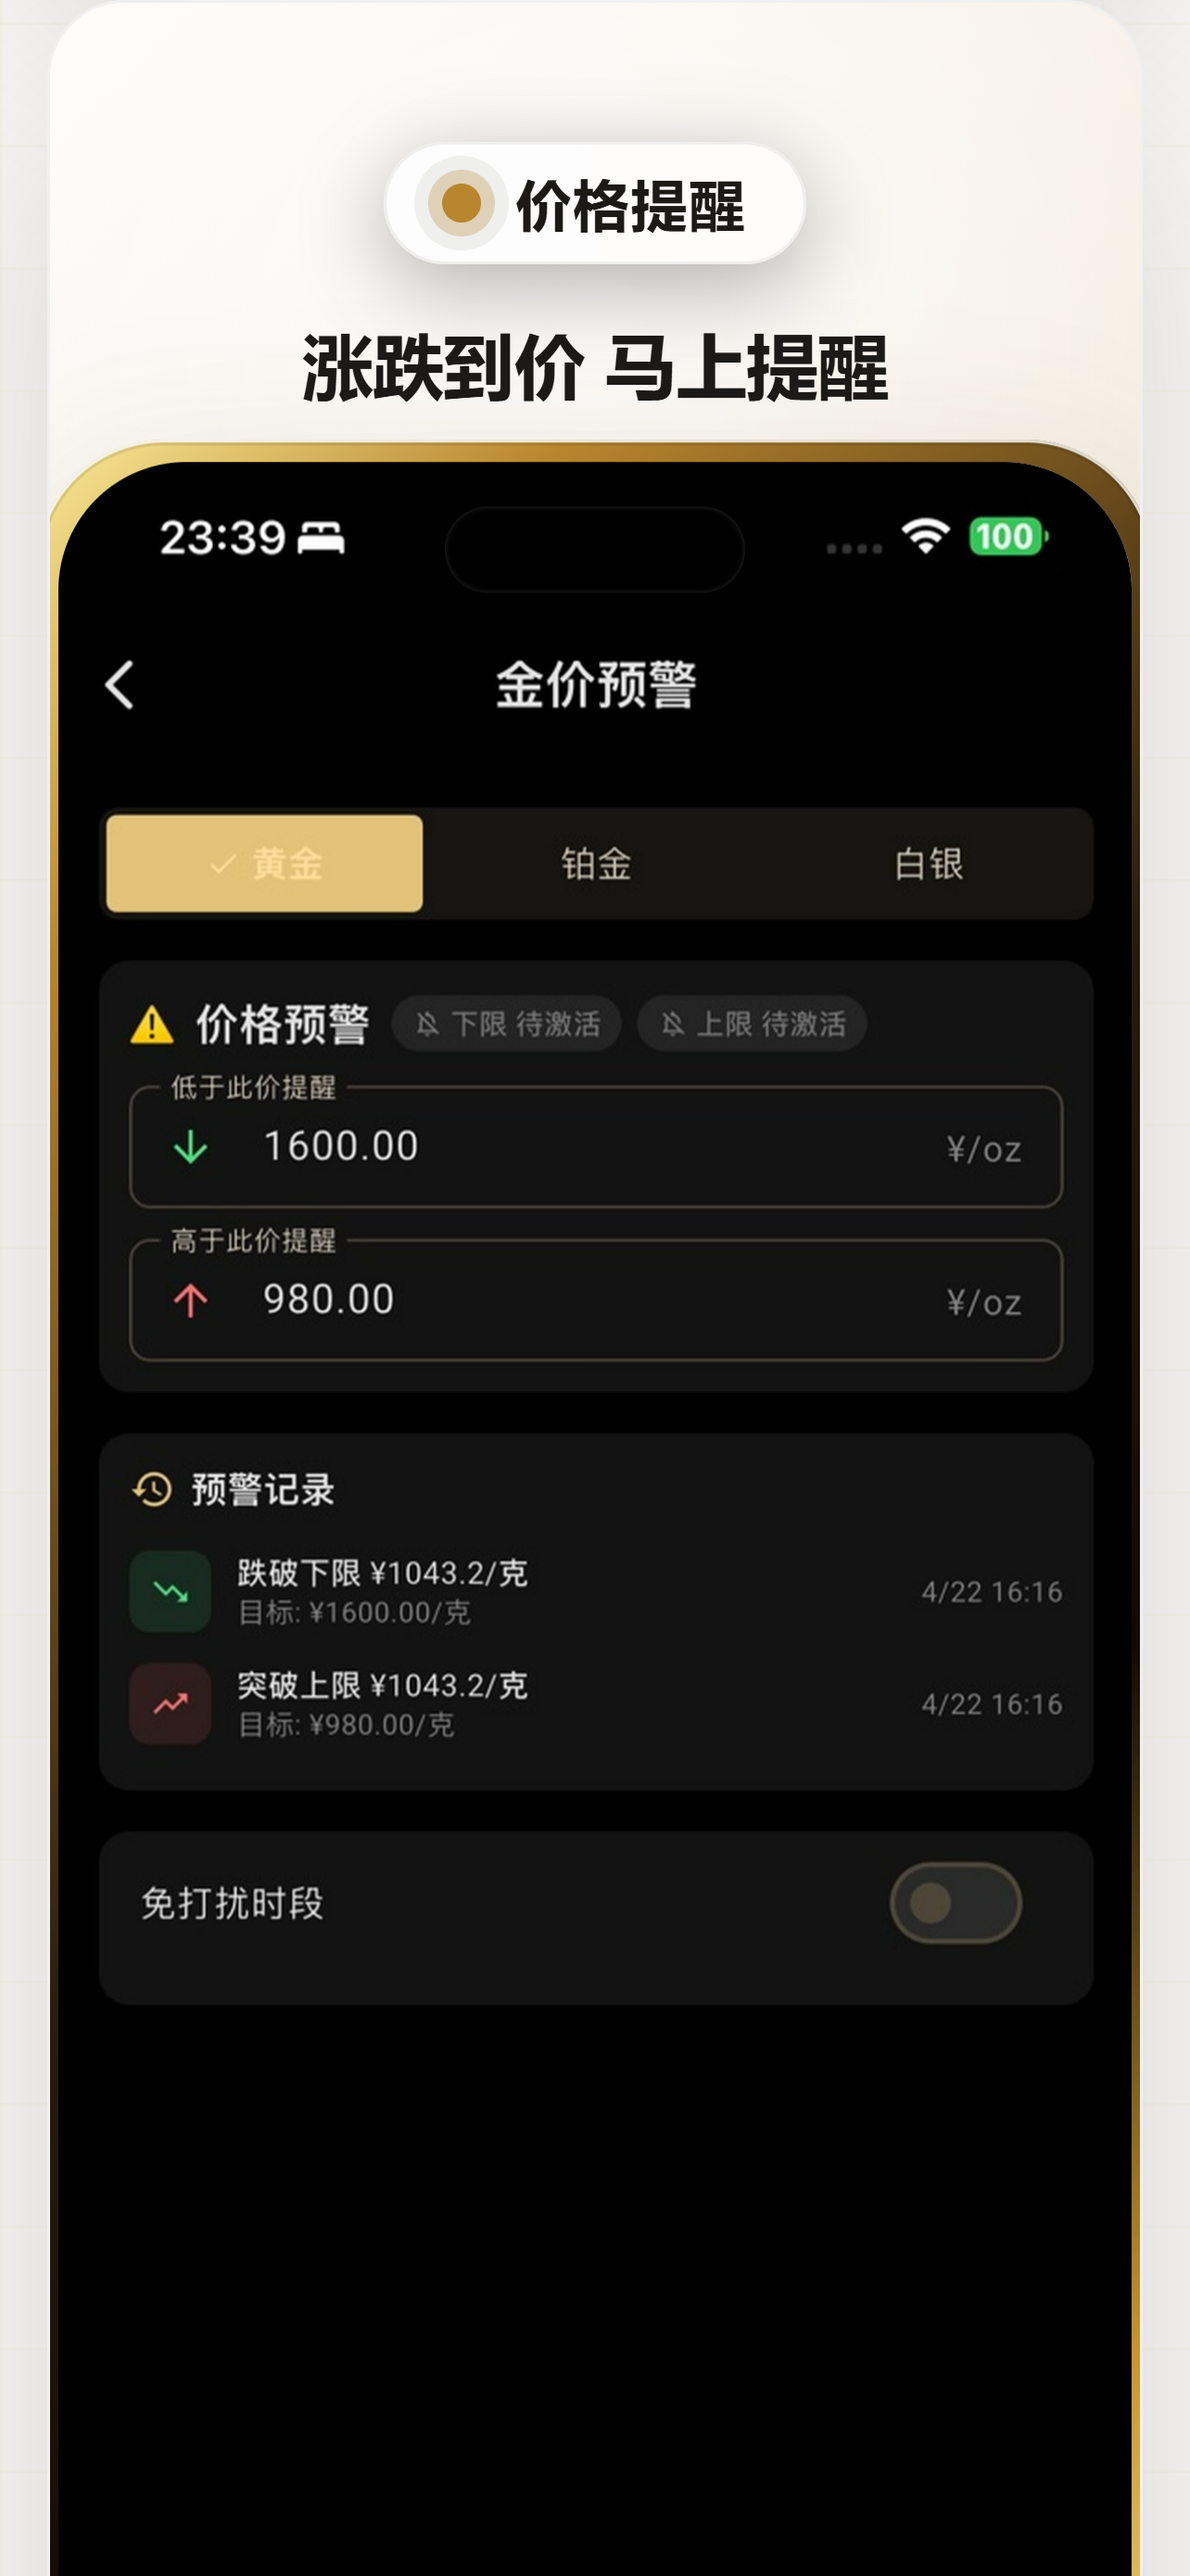
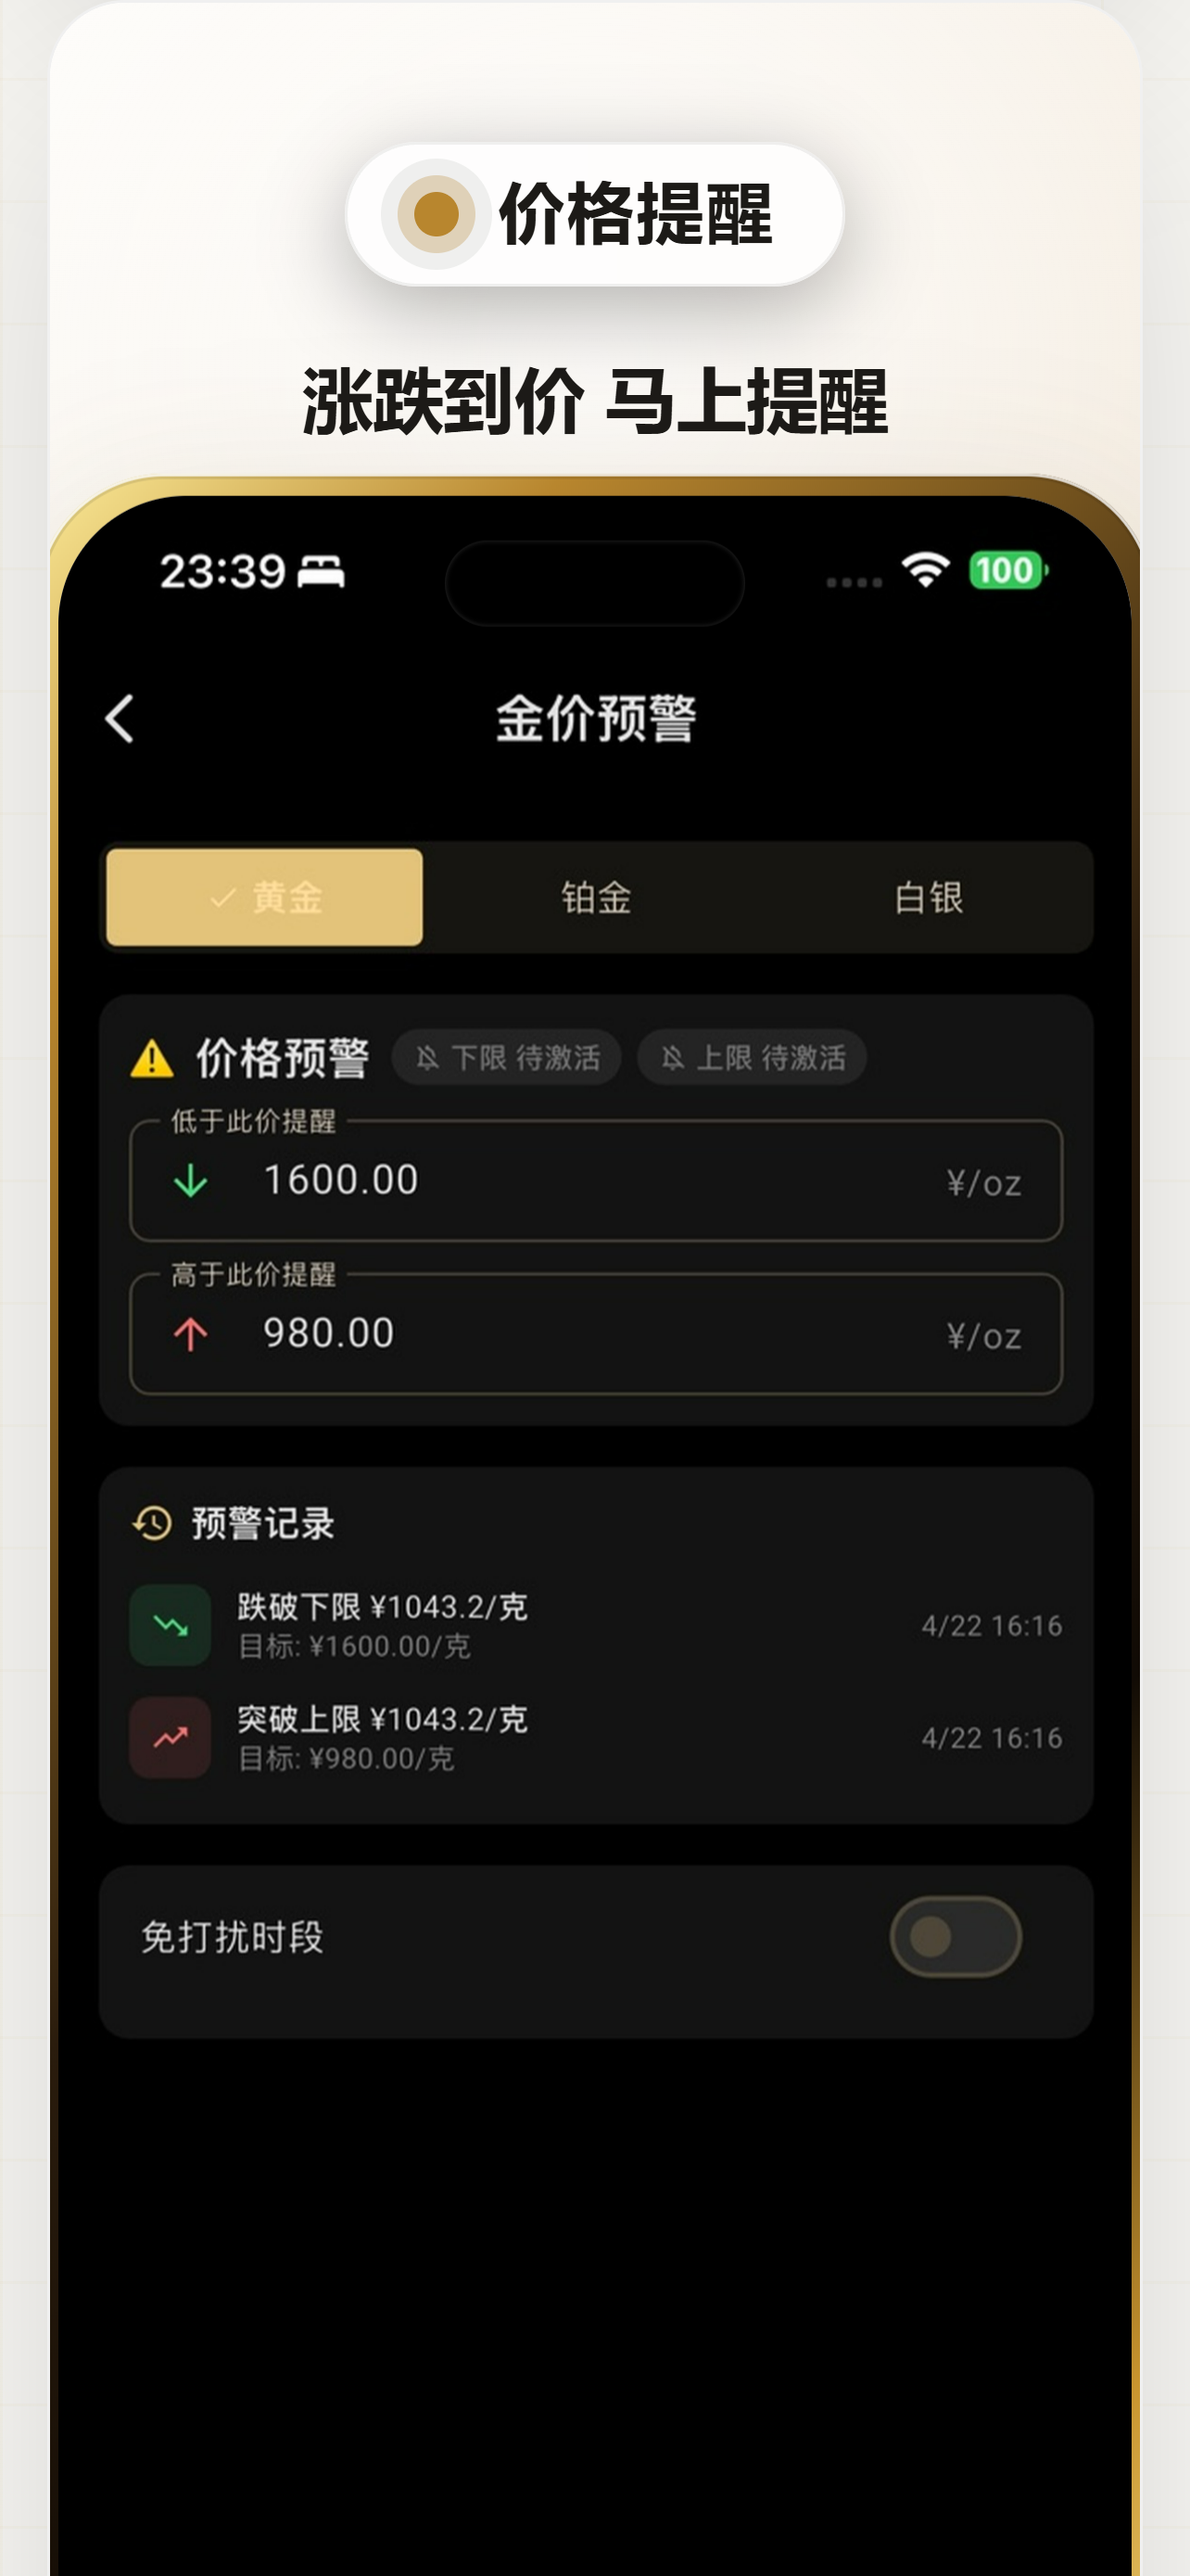
style: increase kicker size by one step

diff --git a/index.html b/index.html
@@ -212,16 +212,16 @@
         .slide-kicker {
             display: inline-flex;
             align-items: center;
-            gap: 12px;
-            min-height: 48px;
-            margin-bottom: 16px;
-            padding: 0 20px;
+            gap: 14px;
+            min-height: 56px;
+            margin-bottom: 20px;
+            padding: 0 24px;
             border: 1px solid var(--glass-border);
             border-radius: 999px;
             background: var(--glass-bg);
             backdrop-filter: blur(20px);
             color: var(--ink);
-            font-size: clamp(18px, 3vw, 24px); /* Slightly smaller than h2 */
+            font-size: clamp(22px, 4vw, 28px); /* One size larger */
             font-weight: 800;
             letter-spacing: 0.04em;
             text-transform: uppercase;
@@ -230,13 +230,13 @@
 
         .slide-kicker::before {
             content: "";
-            width: 14px;
-            height: 14px;
+            width: 16px;
+            height: 16px;
             border-radius: 50%;
             background: var(--kicker-dot, var(--gold));
             box-shadow:
-                0 0 0 5px var(--kicker-halo, rgba(201,149,47,0.28)),
-                0 0 0 10px rgba(0,0,0,0.06);
+                0 0 0 6px var(--kicker-halo, rgba(201,149,47,0.28)),
+                0 0 0 12px rgba(0,0,0,0.06);
         }
 
         /* Per-slide dot color anchoring each slide to its gradient identity */
@@ -504,10 +504,10 @@
             }
 
             .slide-kicker {
-                min-height: 44px;
-                padding: 0 20px;
-                margin-bottom: 20px;
-                font-size: 20px;
+                min-height: 52px;
+                padding: 0 24px;
+                margin-bottom: 24px;
+                font-size: 24px;
             }
 
             .slide-copy h2 {
